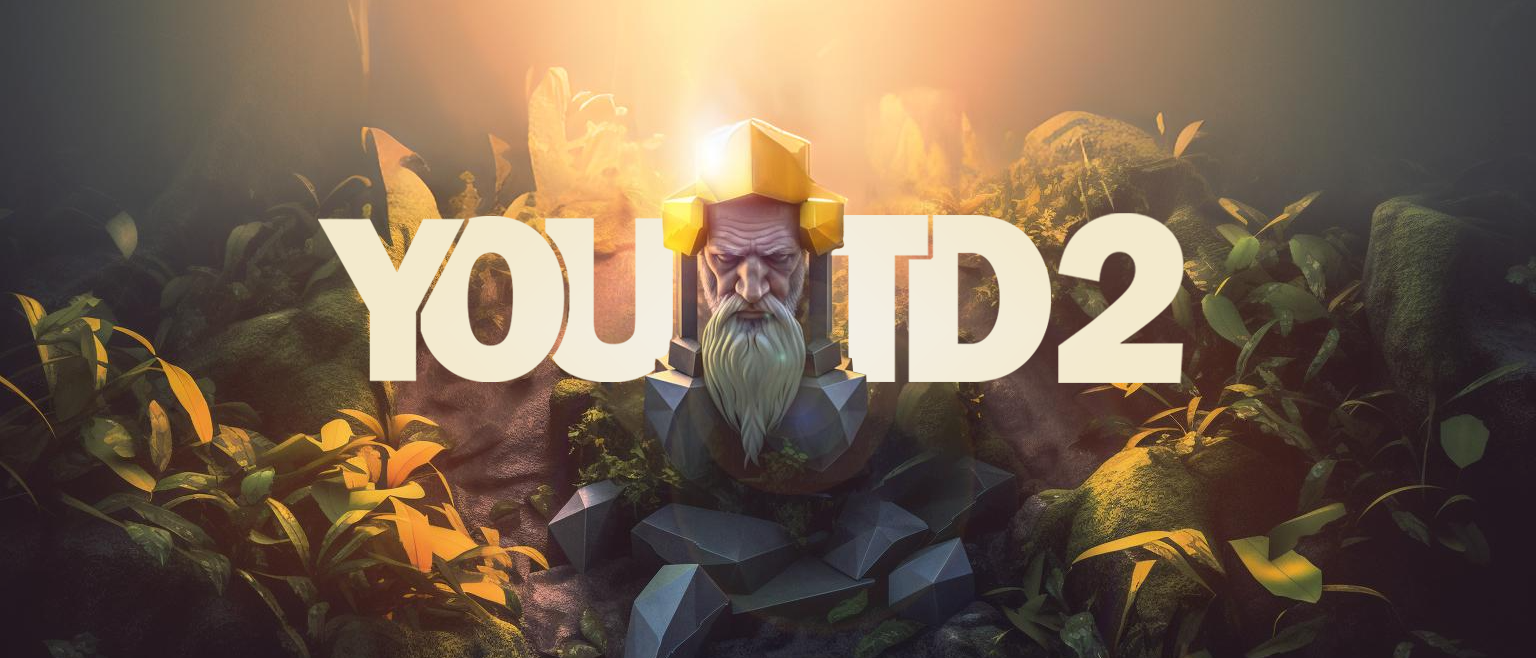
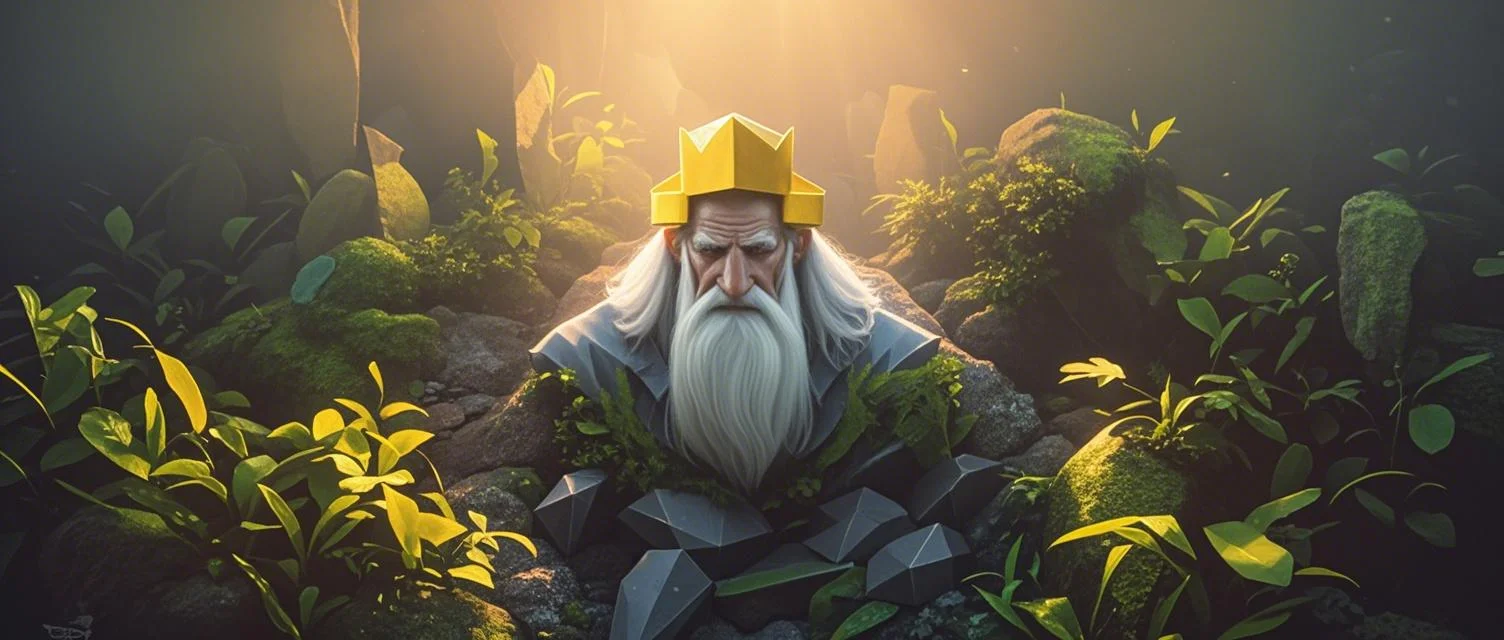
替换图片资源

diff --git a/src/components/GodotGame.tsx b/src/components/GodotGame.tsx
@@ -220,9 +220,11 @@ export default function GodotGame({ address }: { address: string }) {
   return (
     <div className="godot-container">
       <div className="background-video">
+        {/** 
         <video autoPlay muted loop>
           <source src="/loading_screen.mp4" type="video/mp4" />
         </video>
+        */}
       </div>
 
       <canvas ref={canvasRef} id="canvas">

diff --git a/src/components/wallet.tsx b/src/components/wallet.tsx
@@ -38,8 +38,8 @@ const queryClient = new QueryClient()
 
 // Set up metadata
 const metadata = {
-  name: "next-reown-appkit",
-  description: "next-reown-appkit",
+  name: "Orcward",
+  description: "Orcward",
   url: "https://github.com/0xonerb/next-reown-appkit-ssr", // origin must match your domain & subdomain
   icons: ["https://avatars.githubusercontent.com/u/179229932"],
 }
